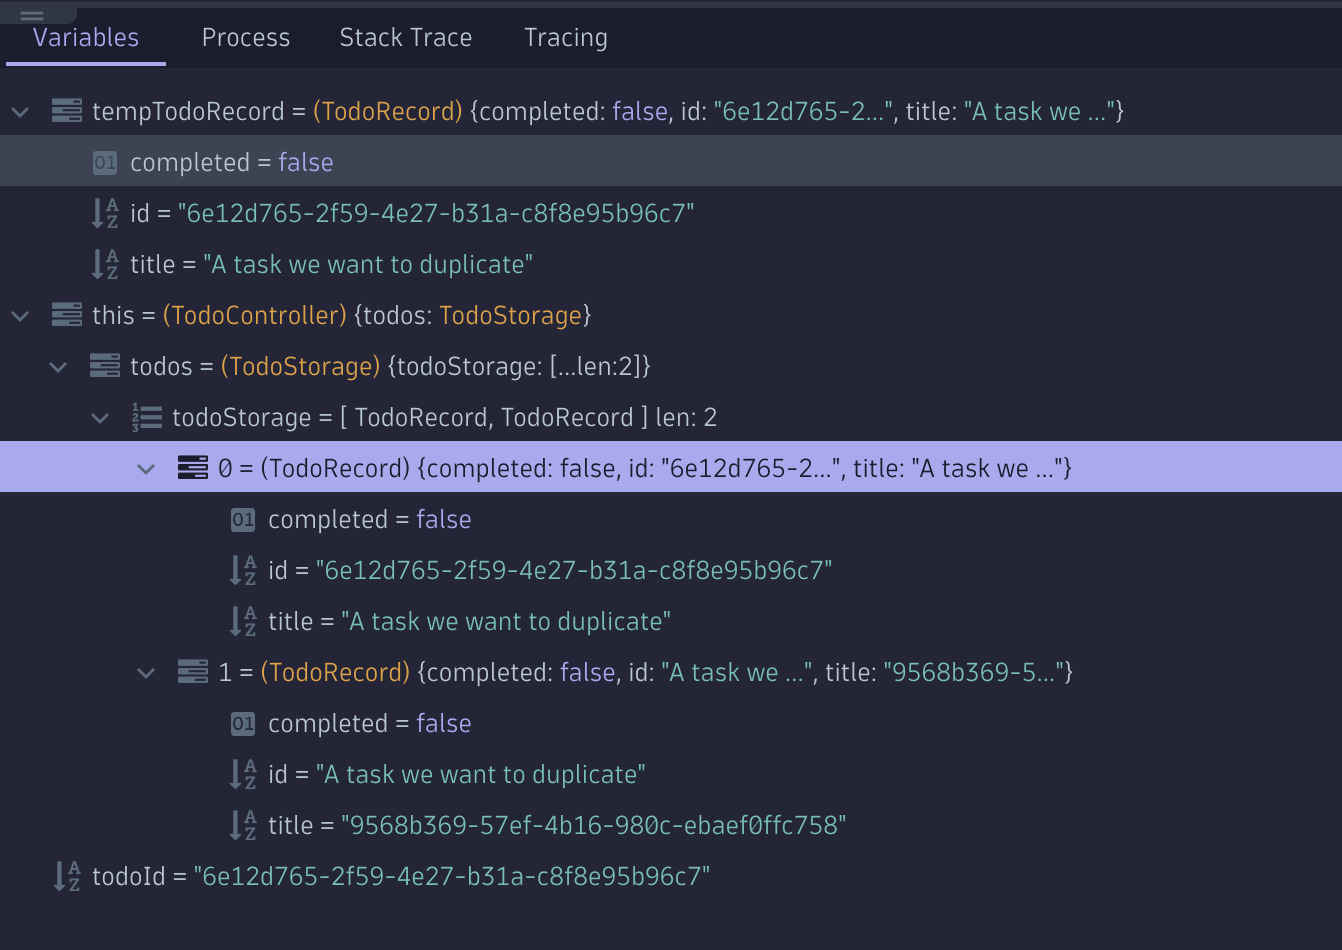
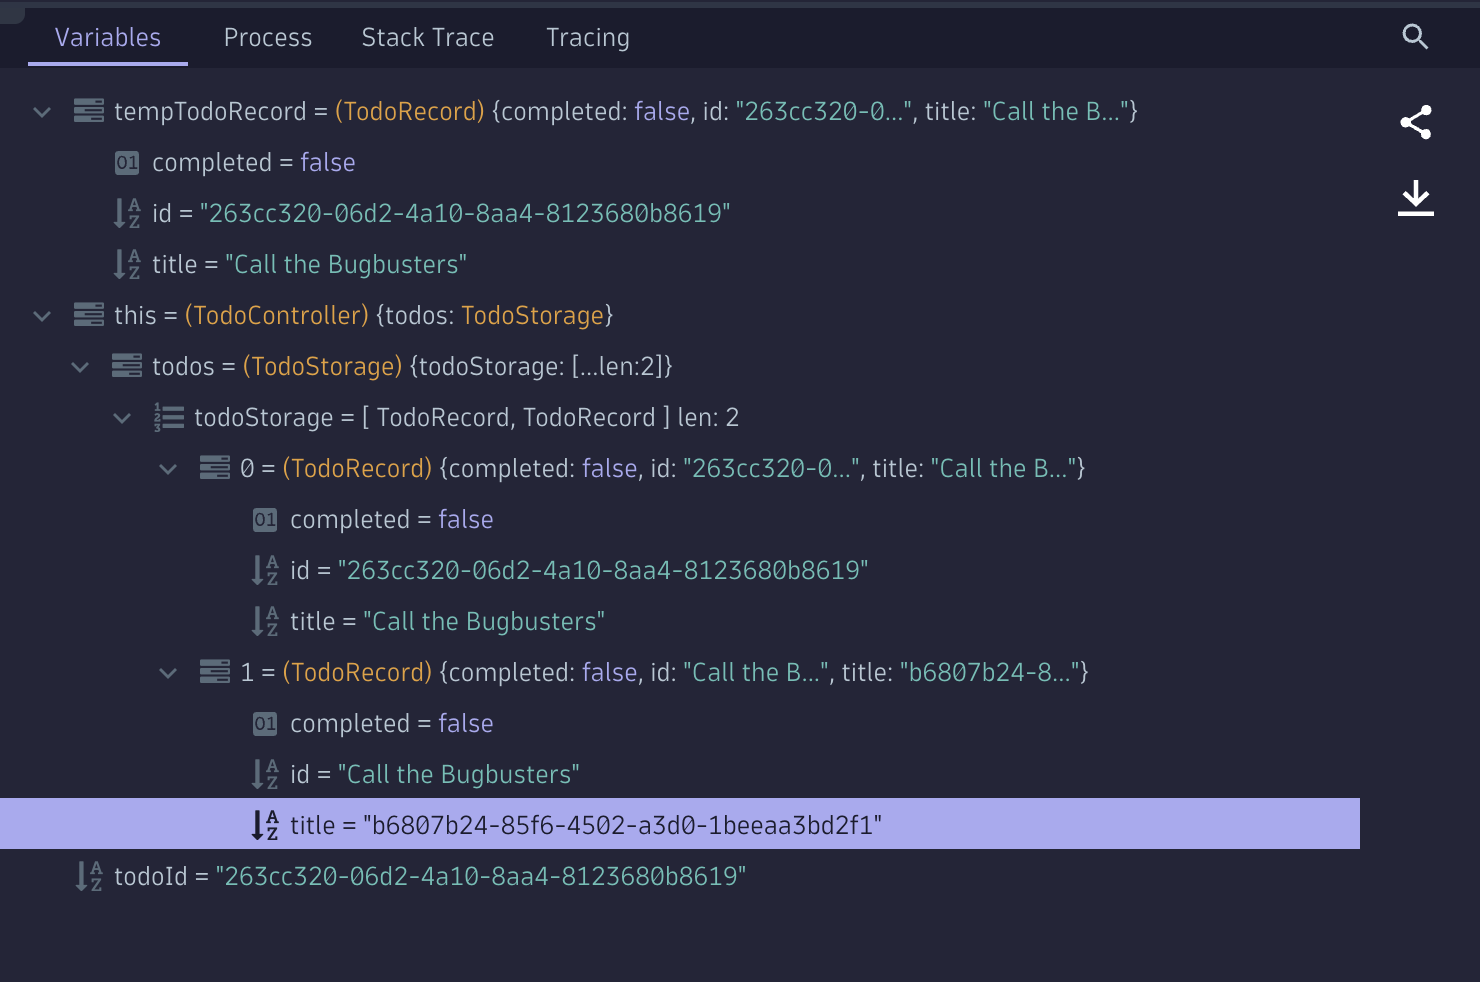
Deployed 8926c73 with MkDocs version: 1.6.1

diff --git a/3-bug-hunt-via-logs/index.html b/3-bug-hunt-via-logs/index.html
@@ -643,15 +643,21 @@ document.addEventListener('DOMContentLoaded', function() {
 <p>Now let's try a different approach, we have seen how easy it is to find the traces via the Distributed Tracing App. Let's find the trace and it's method and codespace via the Logs App. The Dynatrace Plattform is context aware, it knows which traces write which logs, from which pod they are coming from and even which user generated the transaction. </p>
 <ul>
 <li>Open the Logs App. Again let's be a pro and type CTRL + K and then Logs, the Logs App should appear in the super search.</li>
-<li>In the filter type the content or part of the content of the Task, in my case I wrote <code>A task we want to duplicate</code>, so I'm searching for <code>content=*duplicate*</code>.</li>
-<li>Since I'm monitoring multiple Kubernetes Clusters, I'm adding an extra filter for the <code>k8s.namespace.name = todoapp</code>. You can verify this by clicking on a log entry, and on the right hand side, the topology of the log entry will open, you'll notice is the same pod.</li>
+<li>In the filter type the content or part of the content of the Task, in my case I wrote <code>Call the Bugbusters</code>, so I'm searching for <code>content=*bugbusters*</code>. I'm assuming the developers is logging the content I'm writing in the app since "we don't know the code" and in our quests we are searching via logs. Let's see if we are lucky.</li>
 </ul>
 <p><img alt="Logs app" src="../img/logs_app.png" />
-Wow, that was fast, we see two log entries with that match and are coming from the same pod. </p>
+Wow, that was fast, we see two log entries with that match and are coming from the same pod. One was adding the task, the other duplicating it. </p>
 <ul>
-<li>We can either right click on the Log line and <strong>open record with</strong> and you select the <strong>Distributed Tracing</strong> app or on the right pane, above the Topology of the Log entry, there is a button for your convenience that says <strong>Open trace</strong></li>
-<li>Either way will open the Distributed Tracing app</li>
+<li>
+<p>We can either right click on the Log line and <strong>open record with</strong> and you select the <strong>Distributed Tracing</strong> app or on the right pane, above the Topology of the Log entry, there is a button for your convenience that says <strong>Open trace</strong>
+<img alt="Logs app" src="../img/logs_app2.png" /></p>
+</li>
+<li>
+<p>Either way will open the Distributed Tracing app</p>
+</li>
 </ul>
+<p>From the content if you look carefully, you can see that the duplicate has the ID and title swapped.
+<img alt="Logs app" src="../img/logs_app3.png" /></p>
 <h2 id="hunting-road-distributed-tracing-app">Hunting road - Distributed Tracing App<a class="headerlink" href="#hunting-road-distributed-tracing-app" title="Permanent link">#</a></h2>
 <div class="admonition note">
 <p class="admonition-title">Via the Distributed Tracing app</p>
@@ -682,6 +688,7 @@ Wow, that was fast, we see two log entries with that match and are coming from t
 <ul>
 <li>This is also noticeable in the sourcecode, lines 102 and 103 are being swapped. </li>
 </ul>
+<p><img alt="Duplicate" src="../img/duplicate_record2.png" /></p>
 <div class="grid cards">
 <ul>
 <li><a href="../cleanup/">Click here to continue <span class="twemoji"><svg xmlns="http://www.w3.org/2000/svg" viewBox="0 0 24 24"><path d="M13.22 19.03a.75.75 0 0 1 0-1.06L18.19 13H3.75a.75.75 0 0 1 0-1.5h14.44l-4.97-4.97a.749.749 0 0 1 .326-1.275.75.75 0 0 1 .734.215l6.25 6.25a.75.75 0 0 1 0 1.06l-6.25 6.25a.75.75 0 0 1-1.06 0"/></svg></span></a></li>

diff --git a/3-bug-duplicate-task/index.html b/3-bug-duplicate-task/index.html
@@ -610,10 +610,15 @@ document.addEventListener('DOMContentLoaded', function() {
 <h2 id="open-the-todo-app-and-add-a-task">Open the TODO App and add a Task<a class="headerlink" href="#open-the-todo-app-and-add-a-task" title="Permanent link">#</a></h2>
 <p>The TODO app has a duplicate function, let's give it a try.</p>
 <ul>
-<li>Add a Task that we want to duplicate.</li>
-<li>Hover over the added Task and on the right you'll notice a <strong>&amp;</strong> symbol. This should duplicate the task.</li>
+<li>
+<p>Add a Task that we want to duplicate, we add <strong>Call the Bugbusters</strong>
+<img alt="Duplicate" src="../img/todo_app_duplicate.png" /></p>
+</li>
+<li>
+<p>Hover over the added Task and on the right you'll notice a <strong>&amp;</strong> symbol. This should duplicate the task.
+<img alt="Duplicate" src="../img/todo_app_duplicate2.png" /></p>
+</li>
 </ul>
-<p><img alt="Duplicate" src="../img/todo_app_duplicate.png" /></p>
 <p>What happened? 
 We notice a new task was created, but instead of a duplicate we see a weird string, looks like an ID. </p>
 <p>Let's continue our Bug Hunting Quest!</p>
